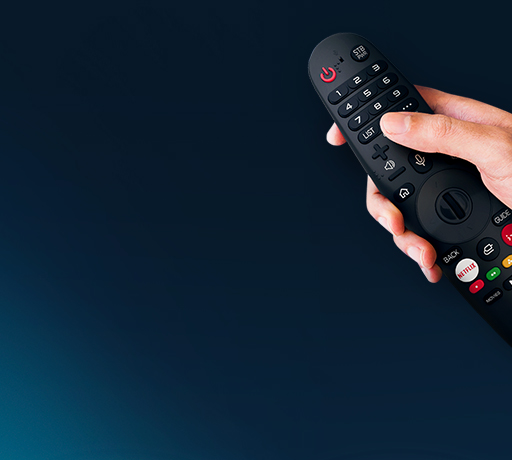
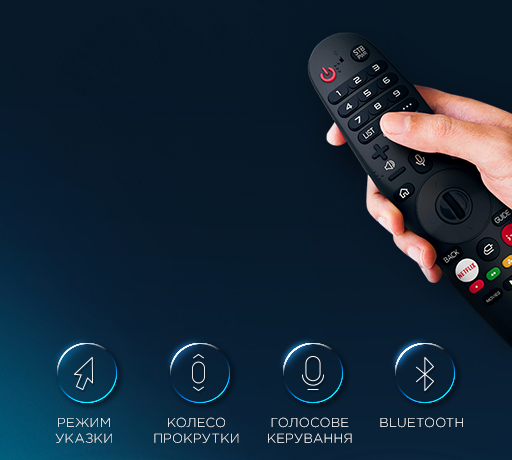
mobile is done

diff --git a/Site27/index.html b/Site27/index.html
@@ -48,7 +48,7 @@
 
         <h2 class="vision__title">Neo Vision</h2>
         <h3 class="vision__subtitle">новий формат зображення</h3>
-        <p class="vision__sescription">функція  покращення зображення телевізора на процесорному рівні. яка поэднує алгоритми інтелектуальної обробки відеопотоку і робить зображення розкішним</p>
+        <p class="vision__description">функція  покращення зображення телевізора на процесорному рівні. яка поэднує алгоритми інтелектуальної обробки відеопотоку і робить зображення розкішним</p>
     </section>
 
     <section class="royality">
@@ -60,51 +60,23 @@
         <iframe src="https://www.youtube.com/embed/B0U9Wlvg9dU" title="YouTube video player" frameborder="0" allow="accelerometer; autoplay; clipboard-write; encrypted-media; gyroscope; picture-in-picture" allowfullscreen></iframe>
     </section>
 
-    <div id="player"></div>
+    <section class="controls">
+        <h2 class="controls__title">magic <br> remote <br> control</h2>
+        <h3 class="controls__subtitle">Багатофункціональний<br> Smart-пульт</h3>
+        <p class="controls__description">Завдяки зручному колесу прокрутки, голосовому управлінню та проcтій навігації magic remote перетворює користування в чисте задоволення.</p>
+    </section>
 
-    <script src="./js/script.js"></script>
+    <section class="sound">
+        <h2 class="sound__title">20 Вт</h2>
+        <h3 class="sound__subtitle">power sound</h3>
 
-    <script>
-        // 2. This code loads the IFrame Player API code asynchronously.
-        var tag = document.createElement('script');
-    
-        tag.src = "http://youtube.com/watch?v=B0U9Wlvg9dU";
-        var firstScriptTag = document.getElementsByTagName('script')[0];
-        firstScriptTag.parentNode.insertBefore(tag, firstScriptTag);
-    
-        // 3. This function creates an <iframe> (and YouTube player)
-        //    after the API code downloads.
-        var player;
-        function onYouTubeIframeAPIReady() {
-          player = new YT.Player('player', {
-            videoId: 'M7lc1UVf-VE',
-            fs:0,
-            events: {
-              'onReady': onPlayerReady,
-              'onStateChange': onPlayerStateChange
-            }
-          });
-        }
-    
-        // 4. The API will call this function when the video player is ready.
-        function onPlayerReady(event) {
-          event.target.playVideo();
-        }
-    
-        // 5. The API calls this function when the player's state changes.
-        //    The function indicates that when playing a video (state=1),
-        //    the player should play for six seconds and then stop.
-        var done = false;
-        function onPlayerStateChange(event) {
-          if (event.data == YT.PlayerState.PLAYING && !done) {
-            setTimeout(stopVideo, 6000);
-            done = true;
-          }
-        }
-        function stopVideo() {
-          player.stopVideo();
-        }
-      </script>
+        <div class="sound__characteristics">
+            <p>підтримка<br> аудіо кодеків<br> DOLBY DIGITAL, AAC</p>
+            <p>виразні<br> низькі частоти</p>
+            <p>підключення<br> HI-FI акустики<br> HDMI ARC, COAXIAL</p>
+        </div>
+    </section>
+
 </body>
 
 </html>

diff --git a/Site27/src/index.html b/Site27/src/index.html
@@ -48,7 +48,7 @@
 
         <h2 class="vision__title">Neo Vision</h2>
         <h3 class="vision__subtitle">новий формат зображення</h3>
-        <p class="vision__sescription">функція  покращення зображення телевізора на процесорному рівні. яка поэднує алгоритми інтелектуальної обробки відеопотоку і робить зображення розкішним</p>
+        <p class="vision__description">функція  покращення зображення телевізора на процесорному рівні. яка поэднує алгоритми інтелектуальної обробки відеопотоку і робить зображення розкішним</p>
     </section>
 
     <section class="royality">
@@ -60,51 +60,23 @@
         <iframe src="https://www.youtube.com/embed/B0U9Wlvg9dU" title="YouTube video player" frameborder="0" allow="accelerometer; autoplay; clipboard-write; encrypted-media; gyroscope; picture-in-picture" allowfullscreen></iframe>
     </section>
 
-    <div id="player"></div>
+    <section class="controls">
+        <h2 class="controls__title">magic <br> remote <br> control</h2>
+        <h3 class="controls__subtitle">Багатофункціональний<br> Smart-пульт</h3>
+        <p class="controls__description">Завдяки зручному колесу прокрутки, голосовому управлінню та проcтій навігації magic remote перетворює користування в чисте задоволення.</p>
+    </section>
 
-    <script src="./js/script.js"></script>
+    <section class="sound">
+        <h2 class="sound__title">20 Вт</h2>
+        <h3 class="sound__subtitle">power sound</h3>
 
-    <script>
-        // 2. This code loads the IFrame Player API code asynchronously.
-        var tag = document.createElement('script');
-    
-        tag.src = "http://youtube.com/watch?v=B0U9Wlvg9dU";
-        var firstScriptTag = document.getElementsByTagName('script')[0];
-        firstScriptTag.parentNode.insertBefore(tag, firstScriptTag);
-    
-        // 3. This function creates an <iframe> (and YouTube player)
-        //    after the API code downloads.
-        var player;
-        function onYouTubeIframeAPIReady() {
-          player = new YT.Player('player', {
-            videoId: 'M7lc1UVf-VE',
-            fs:0,
-            events: {
-              'onReady': onPlayerReady,
-              'onStateChange': onPlayerStateChange
-            }
-          });
-        }
-    
-        // 4. The API will call this function when the video player is ready.
-        function onPlayerReady(event) {
-          event.target.playVideo();
-        }
-    
-        // 5. The API calls this function when the player's state changes.
-        //    The function indicates that when playing a video (state=1),
-        //    the player should play for six seconds and then stop.
-        var done = false;
-        function onPlayerStateChange(event) {
-          if (event.data == YT.PlayerState.PLAYING && !done) {
-            setTimeout(stopVideo, 6000);
-            done = true;
-          }
-        }
-        function stopVideo() {
-          player.stopVideo();
-        }
-      </script>
+        <div class="sound__characteristics">
+            <p>підтримка<br> аудіо кодеків<br> DOLBY DIGITAL, AAC</p>
+            <p>виразні<br> низькі частоти</p>
+            <p>підключення<br> HI-FI акустики<br> HDMI ARC, COAXIAL</p>
+        </div>
+    </section>
+
 </body>
 
 </html>

diff --git a/Site27/css/style.css b/Site27/css/style.css
@@ -126,7 +126,7 @@ body {
   text-shadow: black 1px 1px 15px;
   color: white; }
 
-.vision__sescription {
+.vision__description {
   font-size: 2.8vw;
   margin-top: 3.4vw;
   text-shadow: black 1px 1px 15px;
@@ -168,5 +168,75 @@ body {
   .video iframe {
     width: 100vw;
     height: 100%; }
+
+.controls {
+  background: url(../img/6.jpg) center;
+  background-size: cover;
+  margin: 0 auto;
+  width: 100vw;
+  aspect-ratio: 128/115;
+  display: flex;
+  flex-direction: column;
+  text-align: left;
+  padding-left: 10.1vw; }
+
+.controls__title {
+  color: #a9ebff;
+  font-size: 6.2vw;
+  margin-top: 12.11vw;
+  line-height: 6.4vw;
+  text-shadow: black 1px 1px 15px; }
+
+.controls__subtitle {
+  font-size: 3.64vw;
+  margin-top: 2.7vw;
+  line-height: 4.1vw;
+  text-shadow: black 1px 1px 15px;
+  color: white;
+  margin-left: 0.55vw; }
+
+.controls__description {
+  font-size: 2.8vw;
+  margin-top: 3.1vw;
+  text-shadow: black 1px 1px 15px;
+  color: white;
+  margin-left: 0.6vw;
+  max-width: 76vw; }
+
+.sound {
+  background: url(../img/7.jpg) center;
+  background-size: cover;
+  margin: 0 auto;
+  width: 100vw;
+  aspect-ratio: 128/115;
+  display: flex;
+  flex-direction: column;
+  text-align: center; }
+
+.sound__title {
+  color: #a9ebff;
+  font-size: 6.2vw;
+  margin-top: 18.75vw;
+  line-height: 6.4vw;
+  text-shadow: black 1px 1px 15px; }
+
+.sound__subtitle {
+  font-size: 3.64vw;
+  margin-top: 2.7vw;
+  line-height: 4.1vw;
+  text-shadow: black 1px 1px 15px;
+  color: white;
+  margin-left: 0.55vw; }
+
+.sound__characteristics {
+  margin-top: 27.3vw;
+  display: flex;
+  font-size: 2.5vw;
+  line-height: 3.08vw;
+  text-shadow: black 1px 1px 15px;
+  color: white;
+  justify-content: space-between;
+  padding-left: 5vw;
+  padding-right: 6vw; }
 
 /*# sourceMappingURL=style.css.map */

diff --git a/Site27/scss/style.scss b/Site27/scss/style.scss
@@ -159,7 +159,7 @@ h2{
   color: white;
 }
 
-.vision__sescription{
+.vision__description{
   font-size: 2.8vw; 
   margin-top: 3.4vw;
   text-shadow: black 1px 1px 15px;
@@ -207,6 +207,85 @@ h2{
     width: 100vw;
     height: 100%;
   }
+}
+
+.controls{
+  background: url(../img/6.jpg) center;
+  background-size: cover;
+  margin: 0 auto;
+  width: 100vw;
+  aspect-ratio: 128/115;
+  display: flex;
+  flex-direction: column;
+  text-align: left;
+  padding-left: 10.1vw;
+}
+
+.controls__title{
+  color: #a9ebff;
+  font-size: 6.2vw;
+  margin-top: 12.11vw;
+  line-height: 6.4vw;
+  text-shadow: black 1px 1px 15px;
+}
+
+.controls__subtitle{
+  font-size: 3.64vw;
+  margin-top: 2.7vw;
+  line-height: 4.1vw;
+  text-shadow: black 1px 1px 15px;
+  color: white;
+  margin-left: 0.55vw;
+}
+
+.controls__description{
+  font-size: 2.8vw; 
+  margin-top: 3.1vw;
+  text-shadow: black 1px 1px 15px;
+  color: white;
+  margin-left: 0.6vw;
+  max-width: 76vw;
+}
+
+.sound{
+  background: url(../img/7.jpg) center;
+  background-size: cover;
+  margin: 0 auto;
+  width: 100vw;
+  aspect-ratio: 128/115;
+  display: flex;
+  flex-direction: column;
+  text-align: center;
+}
+
+.sound__title{
+  color: #a9ebff;
+  font-size: 6.2vw;
+  margin-top: 18.75vw;
+  line-height: 6.4vw;
+  text-shadow: black 1px 1px 15px;
+}
+
+.sound__subtitle{
+  font-size: 3.64vw;
+  margin-top: 2.7vw;
+  line-height: 4.1vw;
+  text-shadow: black 1px 1px 15px;
+  color: white;
+  margin-left: 0.55vw;
+}
+
+.sound__characteristics{
+  margin-top: 27.3vw;
+  display: flex;
+  font-size: 2.5vw;
+  line-height: 3.08vw;
+  text-shadow: black 1px 1px 15px;
+  color: white;
+  justify-content: space-between;
+  padding-left: 5vw;
+  padding-right: 6vw;
+
 }
 
 
